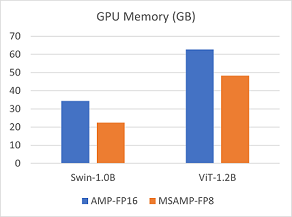
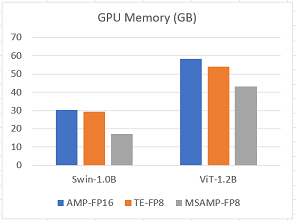
Add gpu memory of TE in memory figure

diff --git a/README.md b/README.md
@@ -143,9 +143,9 @@ Here are the results for Swin-T, DeiT-S and RoBERTa-B:
 
 ### Memory
 
-MS-AMP preserves 32-bit accuracy while using only a fraction of the memory footprint on a range of tasks, including the DeiT model and Swin Transformer for ImageNet classification. For example, for a model with 1 billion parameters, MS-AMP with O2 mode can save approximately 12GB of GPU memory compared to FP16 AMP.
+MS-AMP preserves 32-bit accuracy while using only a fraction of the memory footprint on a range of tasks, including the DeiT model and Swin Transformer for ImageNet classification. For example, comparing to FP16 AMP, MS-AMP with O2 mode can achieve 44% memory saving for Swin-1.0B and 26% memory saving for ViT-1.2B. The proportion of memory saved will be more obvious for larger models.
 
-Here is the result for Swin-giant-1B model and ViT-1.2B model:
+Here are the results for Swin-giant-1B and ViT-1.2B.
 
 ![Image](./docs/assets/gpu-memory.png)
 
